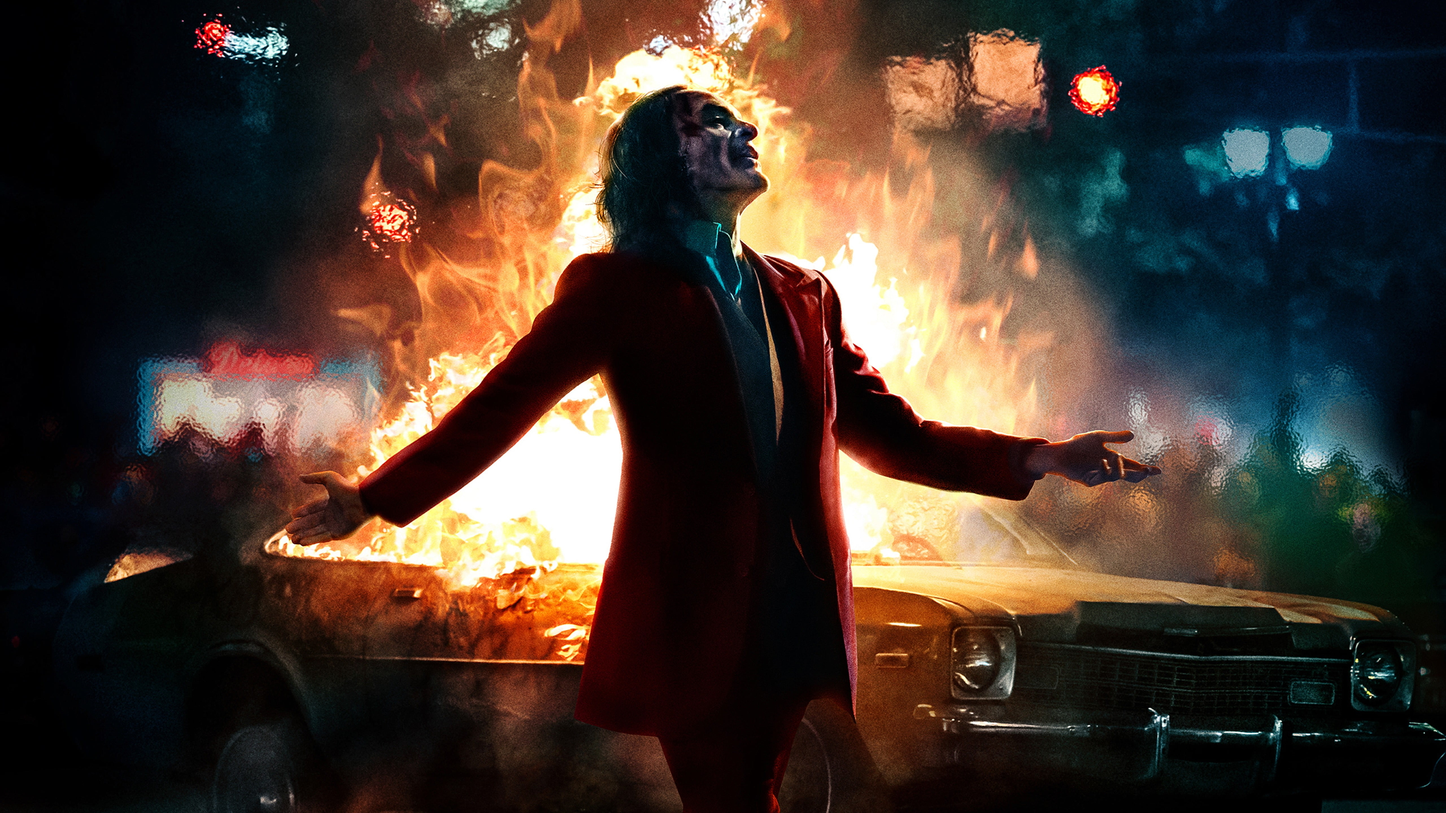
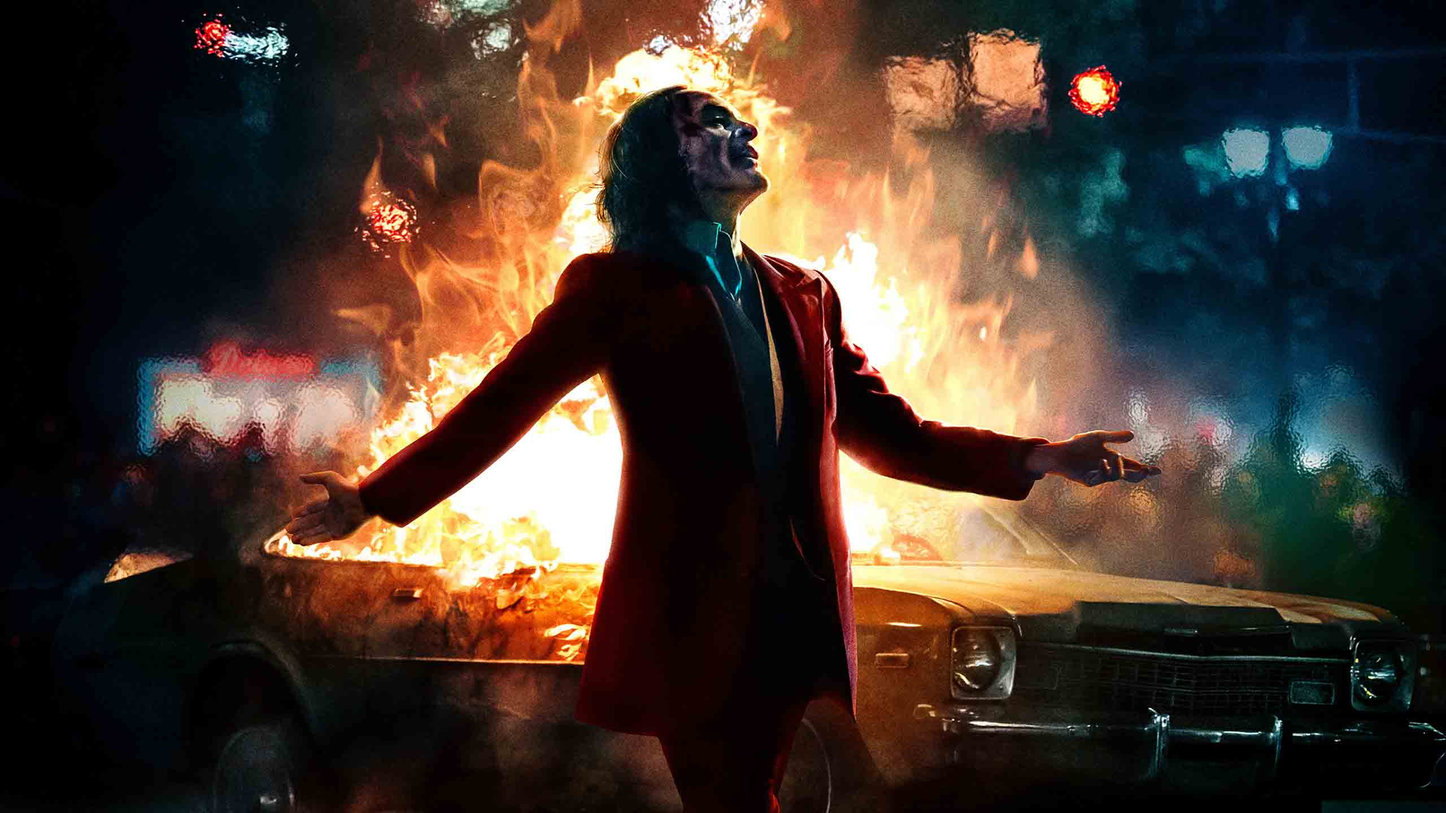
Replcae .jpg Images with Webp Images

diff --git a/components/Header/HeaderWrapper.js b/components/Header/HeaderWrapper.js
@@ -8,7 +8,7 @@ function HeaderWrapper({ children, ...restProps }) {
 
 /*---> Styles <---*/
 export const Wrapper = styled.div`
-  background: url("/images/misc/home-bg.jpg");
+  background: url("/images/misc/home-bg.webp");
   background-position: top left;
   background-size: cover;
   background-repeat: no-repeat;
